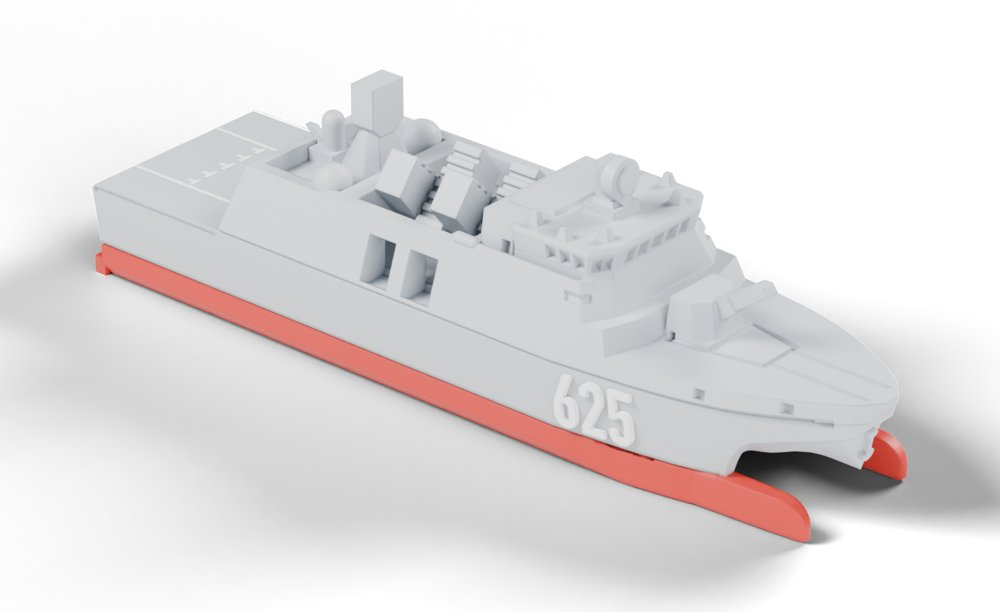
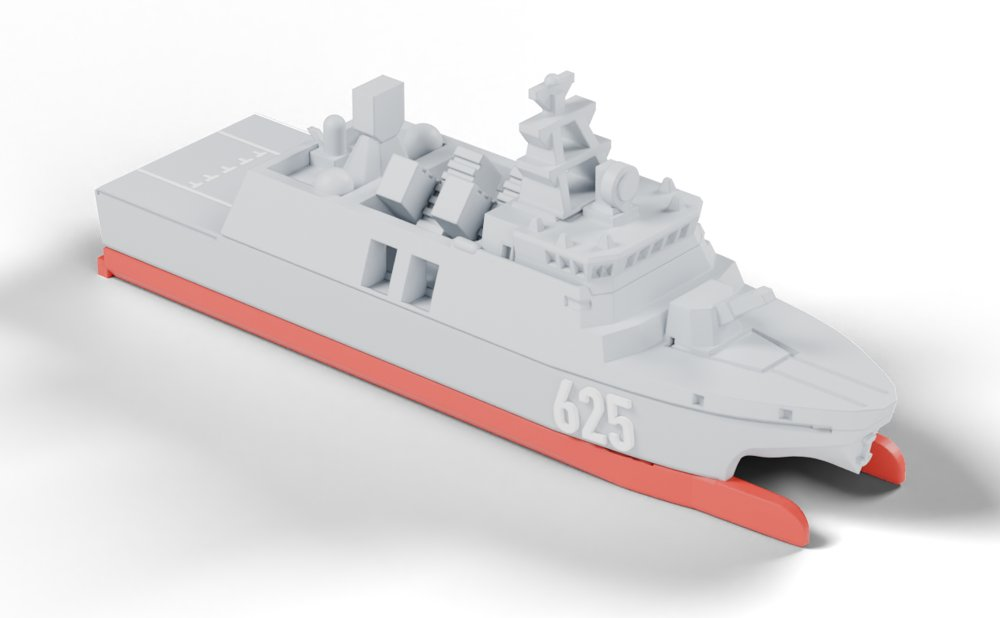
修正 530 油管步驟、625 拆件版與步驟、零件數改實際件數

diff --git a/aoe530/index.html b/aoe530/index.html
@@ -9,5 +9,5 @@ main{max-width:720px;margin:0 auto;padding:16px}h1{margin:8px 0 0;font-size:30px
 .warn{background:#fff;border-radius:12px;padding:12px 16px;margin:18px 0}.warn h3{margin:0 0 6px;font-size:16px;color:#a8322a}.warn li{margin:2px 0}
 .grid{display:grid;grid-template-columns:repeat(auto-fill,minmax(150px,1fr));gap:12px}.grid a{display:block;background:#fff;border-radius:10px;padding:8px;text-decoration:none;color:var(--ink);text-align:center}
 .grid img{width:100%}.grid b{display:block;font-size:17px}footer{color:var(--mut);font-size:13px;text-align:center;padding:24px 16px}a{color:var(--navy2)}</style></head><body>
-<header><a href=".././"><img src="../img/logo.png" alt="千一工坊"></a><b>Q 版艦艇圖鑑・組裝教學</b></header><main><h1>AOE-530</h1><p class="sub">武夷艦・戰鬥支援艦・零件 15 件</p><img class="hero" src="../img/aoe530_hero.jpg" alt="武夷艦"><div class="tip">組裝順序：照 A → B → C 袋依序拆開。零件對準卡榫，輕壓到「喀」一聲就固定了，不需要膠水或工具。</div><div class="step"><h2><span>01</span>A 袋｜船體壓上船底</h2><img src="../img/aoe530_step1.jpg" alt="A 袋｜船體壓上船底" loading="lazy"></div><div class="step"><h2><span>02</span>B 袋｜艦橋、煙囪卡上</h2><img src="../img/aoe530_step2.jpg" alt="B 袋｜艦橋、煙囪卡上" loading="lazy"></div><div class="step"><h2><span>03</span>C 袋｜補給門架、桅杆裝上</h2><img src="../img/aoe530_step3.jpg" alt="C 袋｜補給門架、桅杆裝上" loading="lazy"></div><div class="warn"><h3>注意事項</h3><ul><li>收藏模型・非玩具・14 歲以上</li><li>含小零件，請勿讓幼兒接觸，以免誤食</li><li>細件易斷，組裝時請輕壓，不要硬扳</li><li>PLA 怕熱，勿放高溫車內或陽光直射（超過 50°C 會變形）</li><li>3D 列印手工製品，表面細微層紋屬正常現象</li><li>非官方商品，與中華民國海軍無關</li></ul></div></main>
+<header><a href=".././"><img src="../img/logo.png" alt="千一工坊"></a><b>Q 版艦艇圖鑑・組裝教學</b></header><main><h1>AOE-530</h1><p class="sub">武夷艦・戰鬥支援艦・零件 9 件</p><img class="hero" src="../img/aoe530_hero.jpg" alt="武夷艦"><div class="tip">組裝順序：照 A → B → C 袋依序拆開。零件對準卡榫，輕壓到「喀」一聲就固定了，不需要膠水或工具。</div><div class="step"><h2><span>01</span>A 袋｜船體壓上船底</h2><img src="../img/aoe530_step1.jpg" alt="A 袋｜船體壓上船底" loading="lazy"></div><div class="step"><h2><span>02</span>B 袋｜艦橋、煙囪卡上</h2><img src="../img/aoe530_step2.jpg" alt="B 袋｜艦橋、煙囪卡上" loading="lazy"></div><div class="step"><h2><span>03</span>C 袋｜補給門架（含油管）、桅杆裝上</h2><img src="../img/aoe530_step3.jpg" alt="C 袋｜補給門架（含油管）、桅杆裝上" loading="lazy"></div><div class="warn"><h3>注意事項</h3><ul><li>收藏模型・非玩具・14 歲以上</li><li>含小零件，請勿讓幼兒接觸，以免誤食</li><li>細件易斷，組裝時請輕壓，不要硬扳</li><li>PLA 怕熱，勿放高溫車內或陽光直射（超過 50°C 會變形）</li><li>3D 列印手工製品，表面細微層紋屬正常現象</li><li>非官方商品，與中華民國海軍無關</li></ul></div></main>
 <footer>零件有缺或斷掉，拍照私訊 IG <a href="https://www.instagram.com/qianyi.minis/">@qianyi.minis</a>，免費補寄<br>© 千一工坊 QIANYI MINIS</footer></body></html>

diff --git a/pgg625/index.html b/pgg625/index.html
@@ -9,5 +9,5 @@ main{max-width:720px;margin:0 auto;padding:16px}h1{margin:8px 0 0;font-size:30px
 .warn{background:#fff;border-radius:12px;padding:12px 16px;margin:18px 0}.warn h3{margin:0 0 6px;font-size:16px;color:#a8322a}.warn li{margin:2px 0}
 .grid{display:grid;grid-template-columns:repeat(auto-fill,minmax(150px,1fr));gap:12px}.grid a{display:block;background:#fff;border-radius:10px;padding:8px;text-decoration:none;color:var(--ink);text-align:center}
 .grid img{width:100%}.grid b{display:block;font-size:17px}footer{color:var(--mut);font-size:13px;text-align:center;padding:24px 16px}a{color:var(--navy2)}</style></head><body>
-<header><a href=".././"><img src="../img/logo.png" alt="千一工坊"></a><b>Q 版艦艇圖鑑・組裝教學</b></header><main><h1>PGG-625</h1><p class="sub">安江艦・巡邏艦・零件 4 件</p><img class="hero" src="../img/pgg625_hero.jpg" alt="安江艦"><div class="tip">組裝順序：照 A → B → C 袋依序拆開。零件對準卡榫，輕壓到「喀」一聲就固定了，不需要膠水或工具。</div><div class="step"><h2><span>01</span>A 袋｜船體壓上紅色艦底</h2><img src="../img/pgg625_step1.jpg" alt="A 袋｜船體壓上紅色艦底" loading="lazy"></div><div class="step"><h2><span>02</span>B 袋｜上層結構卡上</h2><img src="../img/pgg625_step2.jpg" alt="B 袋｜上層結構卡上" loading="lazy"></div><div class="step"><h2><span>03</span>C 袋｜裝上</h2><img src="../img/pgg625_step3.jpg" alt="C 袋｜裝上" loading="lazy"></div><div class="warn"><h3>注意事項</h3><ul><li>收藏模型・非玩具・14 歲以上</li><li>含小零件，請勿讓幼兒接觸，以免誤食</li><li>細件易斷，組裝時請輕壓，不要硬扳</li><li>PLA 怕熱，勿放高溫車內或陽光直射（超過 50°C 會變形）</li><li>3D 列印手工製品，表面細微層紋屬正常現象</li><li>非官方商品，與中華民國海軍無關</li></ul></div></main>
+<header><a href=".././"><img src="../img/logo.png" alt="千一工坊"></a><b>Q 版艦艇圖鑑・組裝教學</b></header><main><h1>PGG-625</h1><p class="sub">安江艦・巡邏艦・零件 9 件</p><img class="hero" src="../img/pgg625_hero.jpg" alt="安江艦"><div class="tip">組裝順序：照 A → B → C 袋依序拆開。零件對準卡榫，輕壓到「喀」一聲就固定了，不需要膠水或工具。</div><div class="step"><h2><span>01</span>A 袋｜船體壓上紅色艦底</h2><img src="../img/pgg625_step1.jpg" alt="A 袋｜船體壓上紅色艦底" loading="lazy"></div><div class="step"><h2><span>02</span>B 袋｜插上 4 支定位銷，上層結構壓上</h2><img src="../img/pgg625_step2.jpg" alt="B 袋｜插上 4 支定位銷，上層結構壓上" loading="lazy"></div><div class="step"><h2><span>03</span>C 袋｜駕駛台（含主桅）卡上</h2><img src="../img/pgg625_step3.jpg" alt="C 袋｜駕駛台（含主桅）卡上" loading="lazy"></div><div class="warn"><h3>注意事項</h3><ul><li>收藏模型・非玩具・14 歲以上</li><li>含小零件，請勿讓幼兒接觸，以免誤食</li><li>細件易斷，組裝時請輕壓，不要硬扳</li><li>PLA 怕熱，勿放高溫車內或陽光直射（超過 50°C 會變形）</li><li>3D 列印手工製品，表面細微層紋屬正常現象</li><li>非官方商品，與中華民國海軍無關</li></ul></div></main>
 <footer>零件有缺或斷掉，拍照私訊 IG <a href="https://www.instagram.com/qianyi.minis/">@qianyi.minis</a>，免費補寄<br>© 千一工坊 QIANYI MINIS</footer></body></html>

diff --git a/aoe532/index.html b/aoe532/index.html
@@ -9,5 +9,5 @@ main{max-width:720px;margin:0 auto;padding:16px}h1{margin:8px 0 0;font-size:30px
 .warn{background:#fff;border-radius:12px;padding:12px 16px;margin:18px 0}.warn h3{margin:0 0 6px;font-size:16px;color:#a8322a}.warn li{margin:2px 0}
 .grid{display:grid;grid-template-columns:repeat(auto-fill,minmax(150px,1fr));gap:12px}.grid a{display:block;background:#fff;border-radius:10px;padding:8px;text-decoration:none;color:var(--ink);text-align:center}
 .grid img{width:100%}.grid b{display:block;font-size:17px}footer{color:var(--mut);font-size:13px;text-align:center;padding:24px 16px}a{color:var(--navy2)}</style></head><body>
-<header><a href=".././"><img src="../img/logo.png" alt="千一工坊"></a><b>Q 版艦艇圖鑑・組裝教學</b></header><main><h1>AOE-532</h1><p class="sub">磐石艦・戰鬥支援艦・零件 12 件</p><img class="hero" src="../img/aoe532_hero.jpg" alt="磐石艦"><div class="tip">組裝順序：照 A → B → C 袋依序拆開。零件對準卡榫，輕壓到「喀」一聲就固定了，不需要膠水或工具。</div><div class="step"><h2><span>01</span>A 袋｜船體壓上船底</h2><img src="../img/aoe532_step1.jpg" alt="A 袋｜船體壓上船底" loading="lazy"></div><div class="step"><h2><span>02</span>B 袋｜上層結構卡上</h2><img src="../img/aoe532_step2.jpg" alt="B 袋｜上層結構卡上" loading="lazy"></div><div class="step"><h2><span>03</span>C 袋｜油管、補給門架裝上</h2><img src="../img/aoe532_step3.jpg" alt="C 袋｜油管、補給門架裝上" loading="lazy"></div><div class="warn"><h3>注意事項</h3><ul><li>收藏模型・非玩具・14 歲以上</li><li>含小零件，請勿讓幼兒接觸，以免誤食</li><li>細件易斷，組裝時請輕壓，不要硬扳</li><li>PLA 怕熱，勿放高溫車內或陽光直射（超過 50°C 會變形）</li><li>3D 列印手工製品，表面細微層紋屬正常現象</li><li>非官方商品，與中華民國海軍無關</li></ul></div></main>
+<header><a href=".././"><img src="../img/logo.png" alt="千一工坊"></a><b>Q 版艦艇圖鑑・組裝教學</b></header><main><h1>AOE-532</h1><p class="sub">磐石艦・戰鬥支援艦・零件 8 件</p><img class="hero" src="../img/aoe532_hero.jpg" alt="磐石艦"><div class="tip">組裝順序：照 A → B → C 袋依序拆開。零件對準卡榫，輕壓到「喀」一聲就固定了，不需要膠水或工具。</div><div class="step"><h2><span>01</span>A 袋｜船體壓上船底</h2><img src="../img/aoe532_step1.jpg" alt="A 袋｜船體壓上船底" loading="lazy"></div><div class="step"><h2><span>02</span>B 袋｜上層結構卡上</h2><img src="../img/aoe532_step2.jpg" alt="B 袋｜上層結構卡上" loading="lazy"></div><div class="step"><h2><span>03</span>C 袋｜油管、補給門架裝上</h2><img src="../img/aoe532_step3.jpg" alt="C 袋｜油管、補給門架裝上" loading="lazy"></div><div class="warn"><h3>注意事項</h3><ul><li>收藏模型・非玩具・14 歲以上</li><li>含小零件，請勿讓幼兒接觸，以免誤食</li><li>細件易斷，組裝時請輕壓，不要硬扳</li><li>PLA 怕熱，勿放高溫車內或陽光直射（超過 50°C 會變形）</li><li>3D 列印手工製品，表面細微層紋屬正常現象</li><li>非官方商品，與中華民國海軍無關</li></ul></div></main>
 <footer>零件有缺或斷掉，拍照私訊 IG <a href="https://www.instagram.com/qianyi.minis/">@qianyi.minis</a>，免費補寄<br>© 千一工坊 QIANYI MINIS</footer></body></html>

diff --git a/lcc1/index.html b/lcc1/index.html
@@ -9,5 +9,5 @@ main{max-width:720px;margin:0 auto;padding:16px}h1{margin:8px 0 0;font-size:30px
 .warn{background:#fff;border-radius:12px;padding:12px 16px;margin:18px 0}.warn h3{margin:0 0 6px;font-size:16px;color:#a8322a}.warn li{margin:2px 0}
 .grid{display:grid;grid-template-columns:repeat(auto-fill,minmax(150px,1fr));gap:12px}.grid a{display:block;background:#fff;border-radius:10px;padding:8px;text-decoration:none;color:var(--ink);text-align:center}
 .grid img{width:100%}.grid b{display:block;font-size:17px}footer{color:var(--mut);font-size:13px;text-align:center;padding:24px 16px}a{color:var(--navy2)}</style></head><body>
-<header><a href=".././"><img src="../img/logo.png" alt="千一工坊"></a><b>Q 版艦艇圖鑑・組裝教學</b></header><main><h1>LCC-1</h1><p class="sub">高雄艦・兩棲指揮艦・零件 14 件</p><img class="hero" src="../img/lcc1_hero.jpg" alt="高雄艦"><div class="tip">組裝順序：照 A → B → C 袋依序拆開。輕推艏門往下，跳板就會放下。</div><div class="step"><h2><span>01</span>A 袋｜貨櫃、雷達塔裝上</h2><img src="../img/lcc1_step1.jpg" alt="A 袋｜貨櫃、雷達塔裝上" loading="lazy"></div><div class="step"><h2><span>02</span>B 袋｜上層結構卡上</h2><img src="../img/lcc1_step2.jpg" alt="B 袋｜上層結構卡上" loading="lazy"></div><div class="step"><h2><span>03</span>C 袋｜小艇、前桅裝上</h2><img src="../img/lcc1_step3.jpg" alt="C 袋｜小艇、前桅裝上" loading="lazy"></div><div class="warn"><h3>注意事項</h3><ul><li>收藏模型・非玩具・14 歲以上</li><li>含小零件，請勿讓幼兒接觸，以免誤食</li><li>細件易斷，組裝時請輕壓，不要硬扳</li><li>PLA 怕熱，勿放高溫車內或陽光直射（超過 50°C 會變形）</li><li>3D 列印手工製品，表面細微層紋屬正常現象</li><li>非官方商品，與中華民國海軍無關</li></ul></div></main>
+<header><a href=".././"><img src="../img/logo.png" alt="千一工坊"></a><b>Q 版艦艇圖鑑・組裝教學</b></header><main><h1>LCC-1</h1><p class="sub">高雄艦・兩棲指揮艦・零件 9 件</p><img class="hero" src="../img/lcc1_hero.jpg" alt="高雄艦"><div class="tip">組裝順序：照 A → B → C 袋依序拆開。輕推艏門往下，跳板就會放下。</div><div class="step"><h2><span>01</span>A 袋｜貨櫃、雷達塔裝上</h2><img src="../img/lcc1_step1.jpg" alt="A 袋｜貨櫃、雷達塔裝上" loading="lazy"></div><div class="step"><h2><span>02</span>B 袋｜上層結構卡上</h2><img src="../img/lcc1_step2.jpg" alt="B 袋｜上層結構卡上" loading="lazy"></div><div class="step"><h2><span>03</span>C 袋｜小艇、前桅裝上</h2><img src="../img/lcc1_step3.jpg" alt="C 袋｜小艇、前桅裝上" loading="lazy"></div><div class="warn"><h3>注意事項</h3><ul><li>收藏模型・非玩具・14 歲以上</li><li>含小零件，請勿讓幼兒接觸，以免誤食</li><li>細件易斷，組裝時請輕壓，不要硬扳</li><li>PLA 怕熱，勿放高溫車內或陽光直射（超過 50°C 會變形）</li><li>3D 列印手工製品，表面細微層紋屬正常現象</li><li>非官方商品，與中華民國海軍無關</li></ul></div></main>
 <footer>零件有缺或斷掉，拍照私訊 IG <a href="https://www.instagram.com/qianyi.minis/">@qianyi.minis</a>，免費補寄<br>© 千一工坊 QIANYI MINIS</footer></body></html>

diff --git a/lst231/index.html b/lst231/index.html
@@ -9,5 +9,5 @@ main{max-width:720px;margin:0 auto;padding:16px}h1{margin:8px 0 0;font-size:30px
 .warn{background:#fff;border-radius:12px;padding:12px 16px;margin:18px 0}.warn h3{margin:0 0 6px;font-size:16px;color:#a8322a}.warn li{margin:2px 0}
 .grid{display:grid;grid-template-columns:repeat(auto-fill,minmax(150px,1fr));gap:12px}.grid a{display:block;background:#fff;border-radius:10px;padding:8px;text-decoration:none;color:var(--ink);text-align:center}
 .grid img{width:100%}.grid b{display:block;font-size:17px}footer{color:var(--mut);font-size:13px;text-align:center;padding:24px 16px}a{color:var(--navy2)}</style></head><body>
-<header><a href=".././"><img src="../img/logo.png" alt="千一工坊"></a><b>Q 版艦艇圖鑑・組裝教學</b></header><main><h1>LST-231</h1><p class="sub">中業艦・戰車登陸艦・零件 16 件</p><img class="hero" src="../img/lst231_hero.jpg" alt="中業艦"><div class="tip">組裝順序：照 A → B → C 袋依序拆開。輕推艏門往下，跳板就會放下。</div><div class="step"><h2><span>01</span>A 袋｜艉部上層卡上</h2><img src="../img/lst231_step1.jpg" alt="A 袋｜艉部上層卡上" loading="lazy"></div><div class="step"><h2><span>02</span>B 袋｜三座砲盆裝上</h2><img src="../img/lst231_step2.jpg" alt="B 袋｜三座砲盆裝上" loading="lazy"></div><div class="step"><h2><span>03</span>C 袋｜小艇、桅杆裝上</h2><img src="../img/lst231_step3.jpg" alt="C 袋｜小艇、桅杆裝上" loading="lazy"></div><div class="warn"><h3>注意事項</h3><ul><li>收藏模型・非玩具・14 歲以上</li><li>含小零件，請勿讓幼兒接觸，以免誤食</li><li>細件易斷，組裝時請輕壓，不要硬扳</li><li>PLA 怕熱，勿放高溫車內或陽光直射（超過 50°C 會變形）</li><li>3D 列印手工製品，表面細微層紋屬正常現象</li><li>非官方商品，與中華民國海軍無關</li></ul></div></main>
+<header><a href=".././"><img src="../img/logo.png" alt="千一工坊"></a><b>Q 版艦艇圖鑑・組裝教學</b></header><main><h1>LST-231</h1><p class="sub">中業艦・戰車登陸艦・零件 11 件</p><img class="hero" src="../img/lst231_hero.jpg" alt="中業艦"><div class="tip">組裝順序：照 A → B → C 袋依序拆開。輕推艏門往下，跳板就會放下。</div><div class="step"><h2><span>01</span>A 袋｜艉部上層卡上</h2><img src="../img/lst231_step1.jpg" alt="A 袋｜艉部上層卡上" loading="lazy"></div><div class="step"><h2><span>02</span>B 袋｜三座砲盆裝上</h2><img src="../img/lst231_step2.jpg" alt="B 袋｜三座砲盆裝上" loading="lazy"></div><div class="step"><h2><span>03</span>C 袋｜小艇、桅杆裝上</h2><img src="../img/lst231_step3.jpg" alt="C 袋｜小艇、桅杆裝上" loading="lazy"></div><div class="warn"><h3>注意事項</h3><ul><li>收藏模型・非玩具・14 歲以上</li><li>含小零件，請勿讓幼兒接觸，以免誤食</li><li>細件易斷，組裝時請輕壓，不要硬扳</li><li>PLA 怕熱，勿放高溫車內或陽光直射（超過 50°C 會變形）</li><li>3D 列印手工製品，表面細微層紋屬正常現象</li><li>非官方商品，與中華民國海軍無關</li></ul></div></main>
 <footer>零件有缺或斷掉，拍照私訊 IG <a href="https://www.instagram.com/qianyi.minis/">@qianyi.minis</a>，免費補寄<br>© 千一工坊 QIANYI MINIS</footer></body></html>

diff --git a/index.html b/index.html
@@ -9,5 +9,5 @@ main{max-width:720px;margin:0 auto;padding:16px}h1{margin:8px 0 0;font-size:30px
 .warn{background:#fff;border-radius:12px;padding:12px 16px;margin:18px 0}.warn h3{margin:0 0 6px;font-size:16px;color:#a8322a}.warn li{margin:2px 0}
 .grid{display:grid;grid-template-columns:repeat(auto-fill,minmax(150px,1fr));gap:12px}.grid a{display:block;background:#fff;border-radius:10px;padding:8px;text-decoration:none;color:var(--ink);text-align:center}
 .grid img{width:100%}.grid b{display:block;font-size:17px}footer{color:var(--mut);font-size:13px;text-align:center;padding:24px 16px}a{color:var(--navy2)}</style></head><body>
-<header><a href="./"><img src="img/logo.png" alt="千一工坊"></a><b>Q 版艦艇圖鑑・組裝教學</b></header><main><h1>組裝教學</h1><p class="sub">選你的艦艇（掃盒上 QR 會直接到該艘頁面）</p><div class="grid"><a href="lcm/"><img src="img/lcm_hero.jpg" alt=""><b>LCM</b>機械化登陸艇</a><a href="lcu/"><img src="img/lcu_hero.jpg" alt=""><b>LCU</b>通用登陸艇</a><a href="aoe530/"><img src="img/aoe530_hero.jpg" alt=""><b>AOE-530</b>武夷艦</a><a href="aoe532/"><img src="img/aoe532_hero.jpg" alt=""><b>AOE-532</b>磐石艦</a><a href="pfg1101/"><img src="img/pfg1101_hero.jpg" alt=""><b>PFG-1101</b>成功艦</a><a href="pfg1206/"><img src="img/pfg1206_hero.jpg" alt=""><b>PFG-1206</b>迪化艦</a><a href="pgg625/"><img src="img/pgg625_hero.jpg" alt=""><b>PGG-625</b>安江艦</a><a href="lcc1/"><img src="img/lcc1_hero.jpg" alt=""><b>LCC-1</b>高雄艦</a><a href="lst231/"><img src="img/lst231_hero.jpg" alt=""><b>LST-231</b>中業艦</a></div></main>
+<header><a href="./"><img src="img/logo.png" alt="千一工坊"></a><b>Q 版艦艇圖鑑・組裝教學</b></header><main><h1>組裝教學</h1><p class="sub">選你的艦艇</p><div class="grid"><a href="lcm/"><img src="img/lcm_hero.jpg" alt=""><b>LCM</b>機械化登陸艇</a><a href="lcu/"><img src="img/lcu_hero.jpg" alt=""><b>LCU</b>通用登陸艇</a><a href="aoe530/"><img src="img/aoe530_hero.jpg" alt=""><b>AOE-530</b>武夷艦</a><a href="aoe532/"><img src="img/aoe532_hero.jpg" alt=""><b>AOE-532</b>磐石艦</a><a href="pfg1101/"><img src="img/pfg1101_hero.jpg" alt=""><b>PFG-1101</b>成功艦</a><a href="pfg1206/"><img src="img/pfg1206_hero.jpg" alt=""><b>PFG-1206</b>迪化艦</a><a href="pgg625/"><img src="img/pgg625_hero.jpg" alt=""><b>PGG-625</b>安江艦</a><a href="lcc1/"><img src="img/lcc1_hero.jpg" alt=""><b>LCC-1</b>高雄艦</a><a href="lst231/"><img src="img/lst231_hero.jpg" alt=""><b>LST-231</b>中業艦</a></div></main>
 <footer>零件有缺或斷掉，拍照私訊 IG <a href="https://www.instagram.com/qianyi.minis/">@qianyi.minis</a>，免費補寄<br>© 千一工坊 QIANYI MINIS</footer></body></html>
